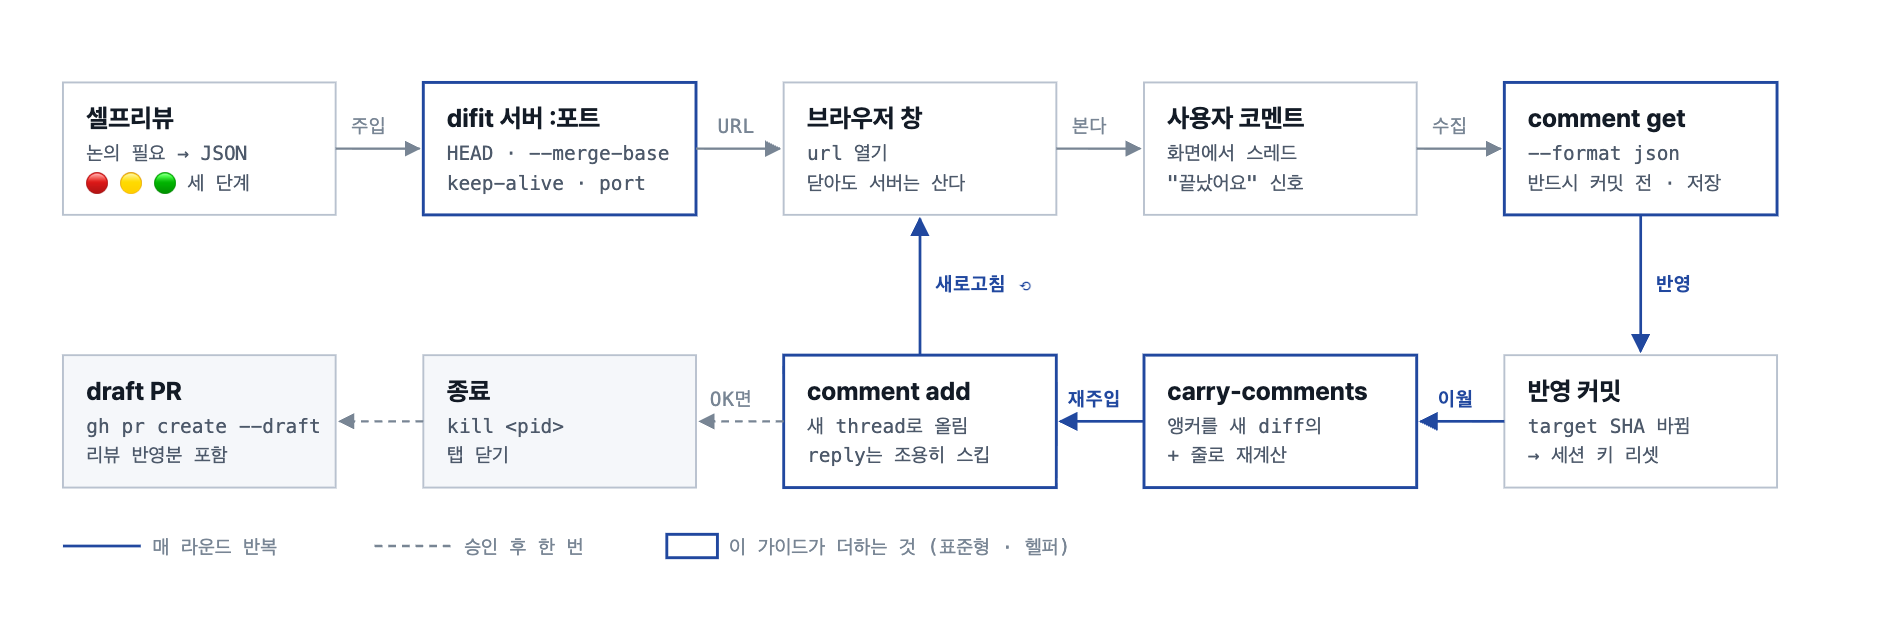
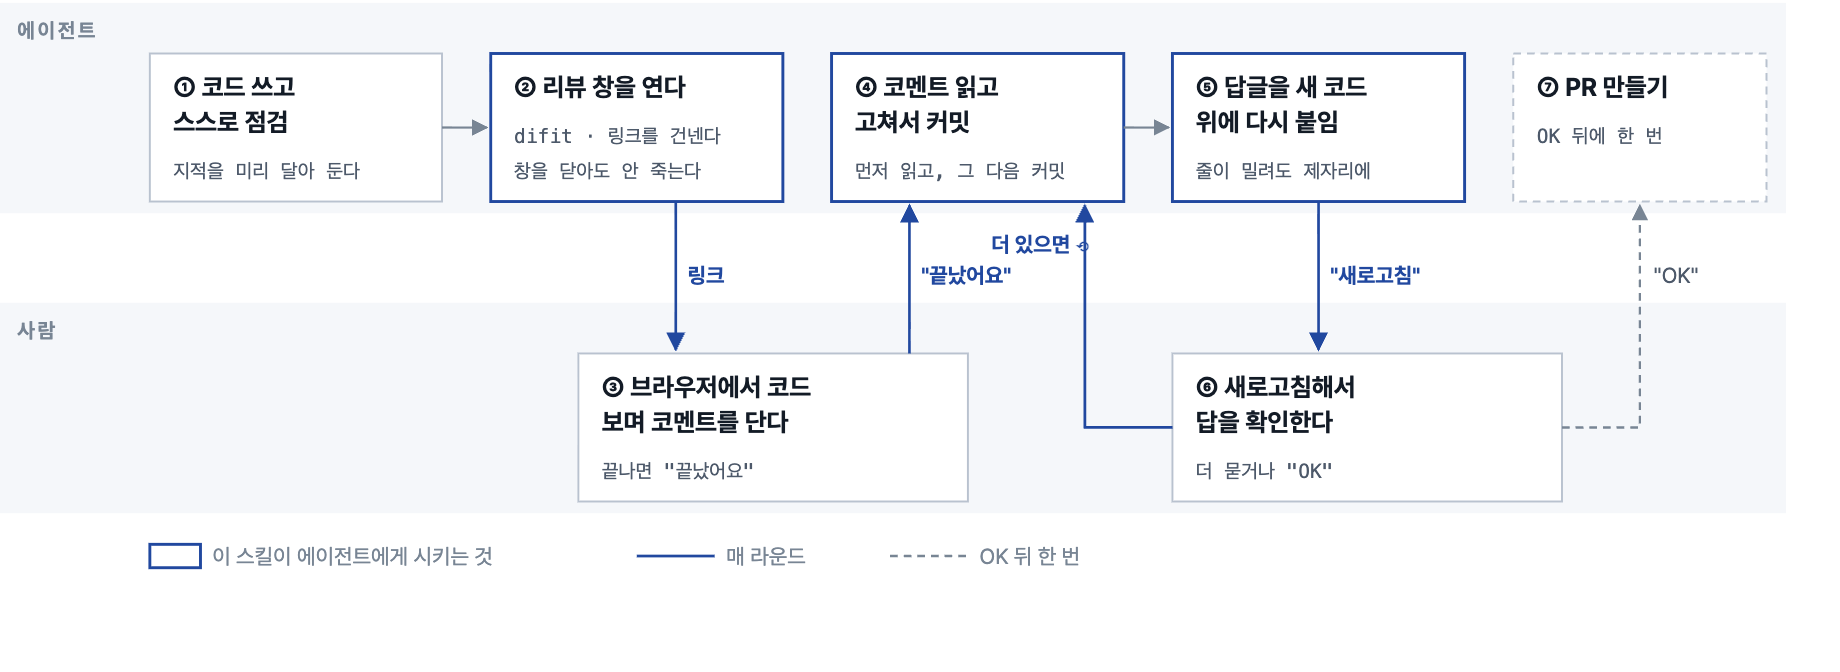
docs: 한 라운드 도식을 에이전트/사람 두 레인의 쉬운 말로 다시 그림

diff --git a/README.md b/README.md
@@ -14,10 +14,10 @@ Node ≥ 21이면 difit은 `npx`로 알아서 받는다.
 
 ## 한 라운드
 
-<img src="docs/loop.png" alt="한 라운드: 셀프리뷰 → difit 서버 → 브라우저 창 → 사용자 코멘트 → comment get(커밋 전) → 반영 커밋 → carry-comments → comment add(새 thread) → 새로고침 ⟲ / OK면 종료 → draft PR" width="100%">
+<img src="docs/loop.png" alt="한 라운드 — 에이전트: ① 코드 쓰고 스스로 점검 → ② 리뷰 창을 연다 → ④ 코멘트 읽고 고쳐서 커밋 → ⑤ 답글을 새 코드 위에 다시 붙임 → ⑦ PR 만들기. 사람: ③ 브라우저에서 코드 보며 코멘트를 단다 → 끝났어요 → ⑥ 새로고침해서 답을 확인한다 → 더 묻거나 OK" width="100%">
 
-사용자가 할 일은 두 가지다 — **브라우저에서 코멘트를 달고 "끝났어요"**, 그리고 반영을 보고 **"OK"**.
-나머지는 에이전트가 한다. 파란 테두리가 이 스킬이 더하는 부분(표준형 · 헬퍼)이다.
+사람이 하는 일은 ③과 ⑥뿐이다 — **브라우저에서 코드를 보며 코멘트를 달고 "끝났어요"**, 반영을 보고 **더 묻거나 "OK"**.
+나머지는 에이전트가 한다. 파란 테두리가 이 스킬이 에이전트에게 시키는 부분이다.
 
 ## 실제 화면
 
